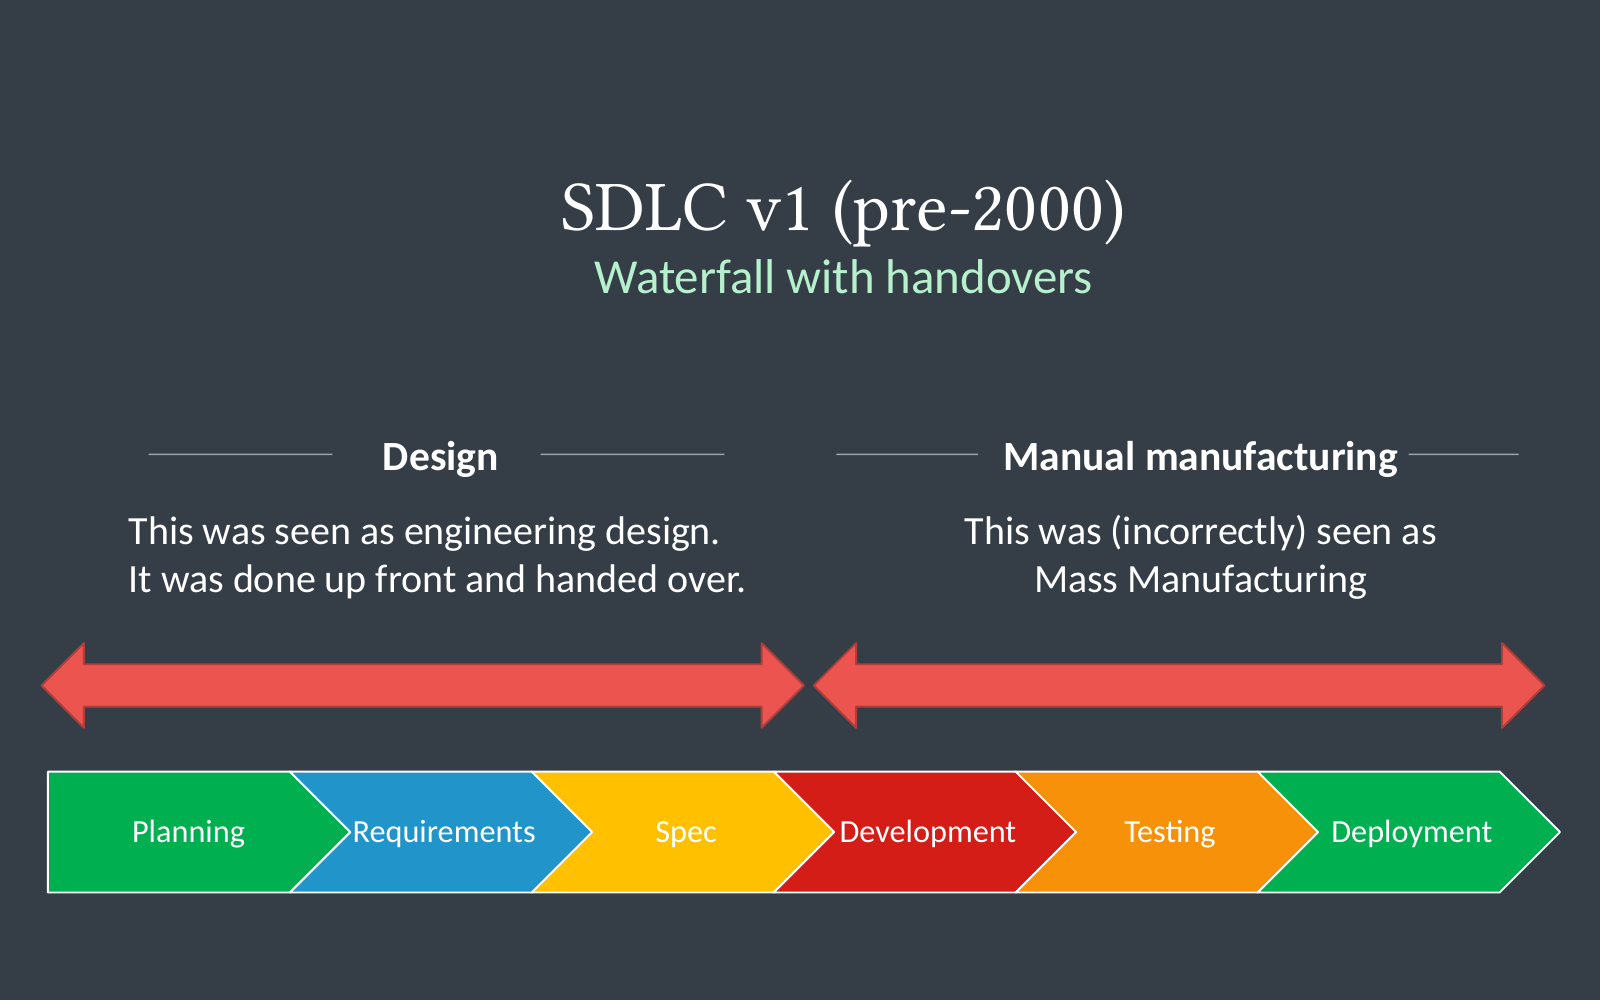
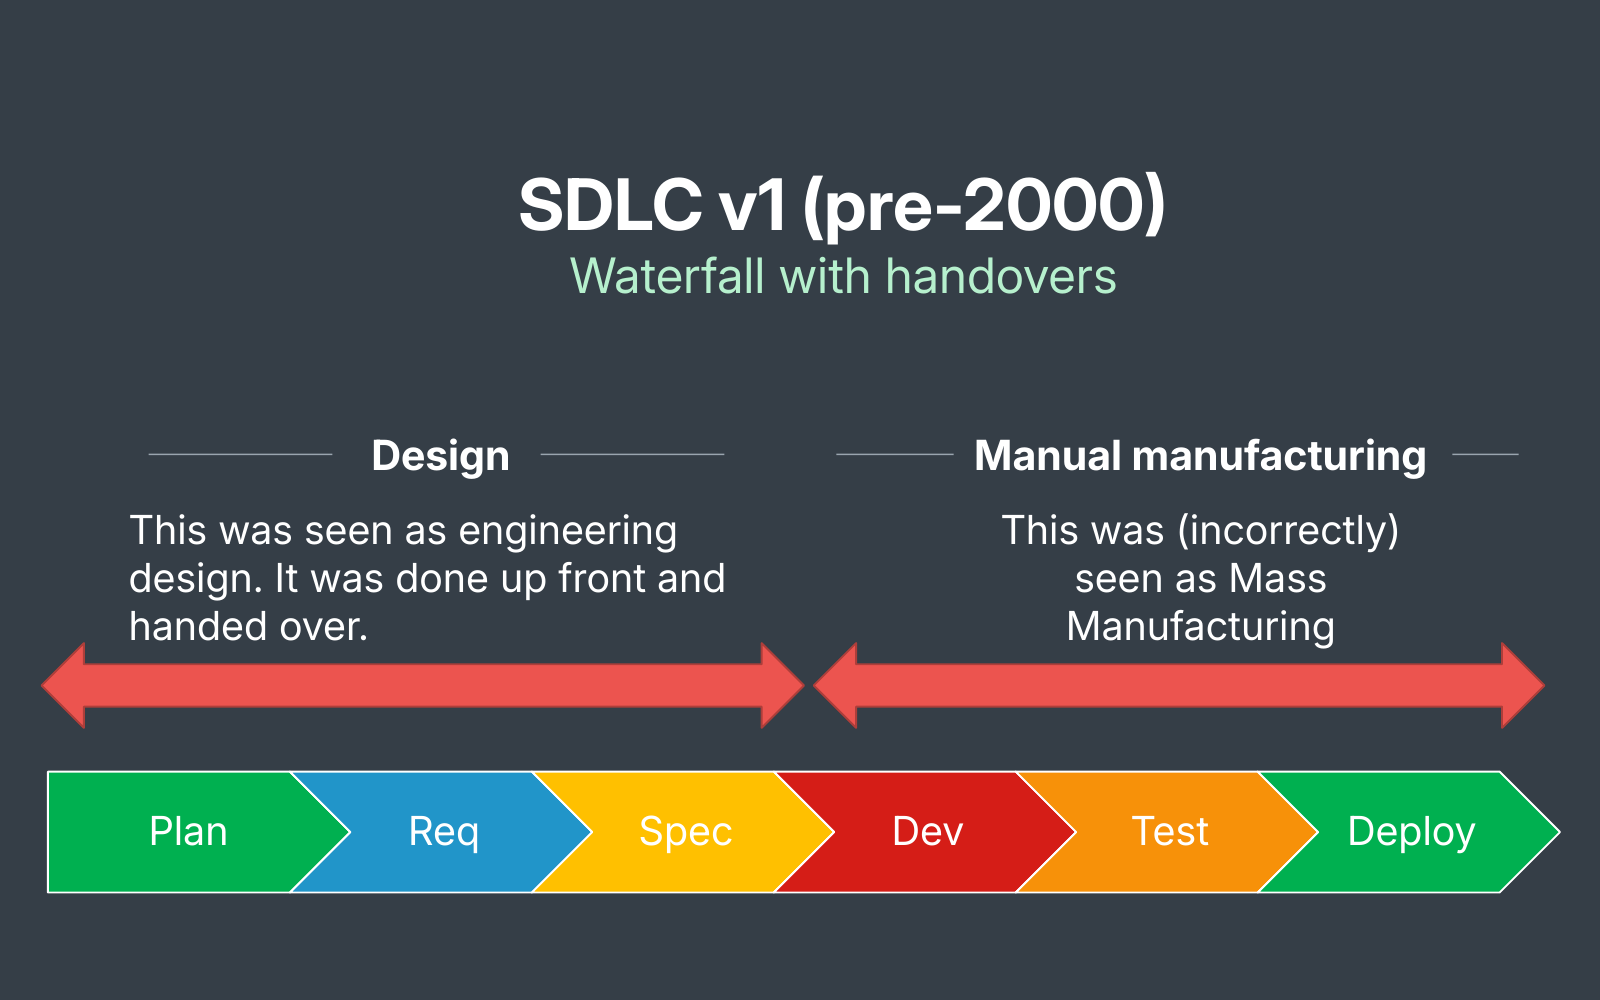
Refresh SDLC slide typography and Ford cover

diff --git a/assets/main.scss b/assets/main.scss
@@ -339,3 +339,17 @@ footer span {
 .post .responsive-embed.slideshare {
   padding-bottom: 62.5%;
 }
+
+// Let the SDLC slide images use the phone width while keeping the text column intact.
+@media (max-width: 599px) {
+  .post .sdlc-slide {
+    width: calc(100vw - 1rem);
+    margin-left: calc(50% - 50vw + 0.5rem);
+  }
+
+  .post .sdlc-slide img {
+    display: block;
+    width: 100%;
+    height: auto;
+  }
+}

diff --git a/_posts/2026-11-12-sdlc-in-the-agentic-era.md b/_posts/2026-11-12-sdlc-in-the-agentic-era.md
@@ -3,7 +3,6 @@ published: true
 layout: post
 permalink: /2026-11-12/sdlc-in-the-agentic-era
 image: /assets/article_images/2026-11-12-sdlc-in-the-agentic-era/cover.jpg
-catalogue_image: /assets/article_images/2026-11-12-sdlc-in-the-agentic-era/sdlc-v3.png
 image_width: 1600
 image_height: 1000
 title: Evolution of the Software Development Lifecycle (SDLC)
@@ -27,12 +26,15 @@ Let’s look at how the lifecycle evolved to understand it.
 <!--more-->
 
 [![SDLC v1 (pre-2000). Waterfall with handovers. Planning, requirements and spec were seen as upfront design. Development, testing and deployment were treated as manual manufacturing.](/assets/article_images/2026-11-12-sdlc-in-the-agentic-era/sdlc-v1.png)](/assets/article_images/2026-11-12-sdlc-in-the-agentic-era/sdlc-v1.png)
+{: .sdlc-slide}
 
 [![SDLC v2 (2002–2025). Iterative development with CI/CD. Development and testing are part of iterative engineering design. Repeatable automation handles deployment. Use what you learn to revise the design.](/assets/article_images/2026-11-12-sdlc-in-the-agentic-era/sdlc-v2.png)](/assets/article_images/2026-11-12-sdlc-in-the-agentic-era/sdlc-v2.png)
+{: .sdlc-slide}
 
 [![SDLC v3 (2026+). AI-assisted iterative development. The same six stages appear in two lanes. AI automates repeatable engineering work in the pipeline and collaborates in the iterative design process.](/assets/article_images/2026-11-12-sdlc-in-the-agentic-era/sdlc-v3.png)](/assets/article_images/2026-11-12-sdlc-in-the-agentic-era/sdlc-v3.png)
+{: .sdlc-slide}
 
-## What can we learn from this change?
+## What can we learn from this for 2027?
 
 1. **Automation: Move from CI/CD to CE**
 
